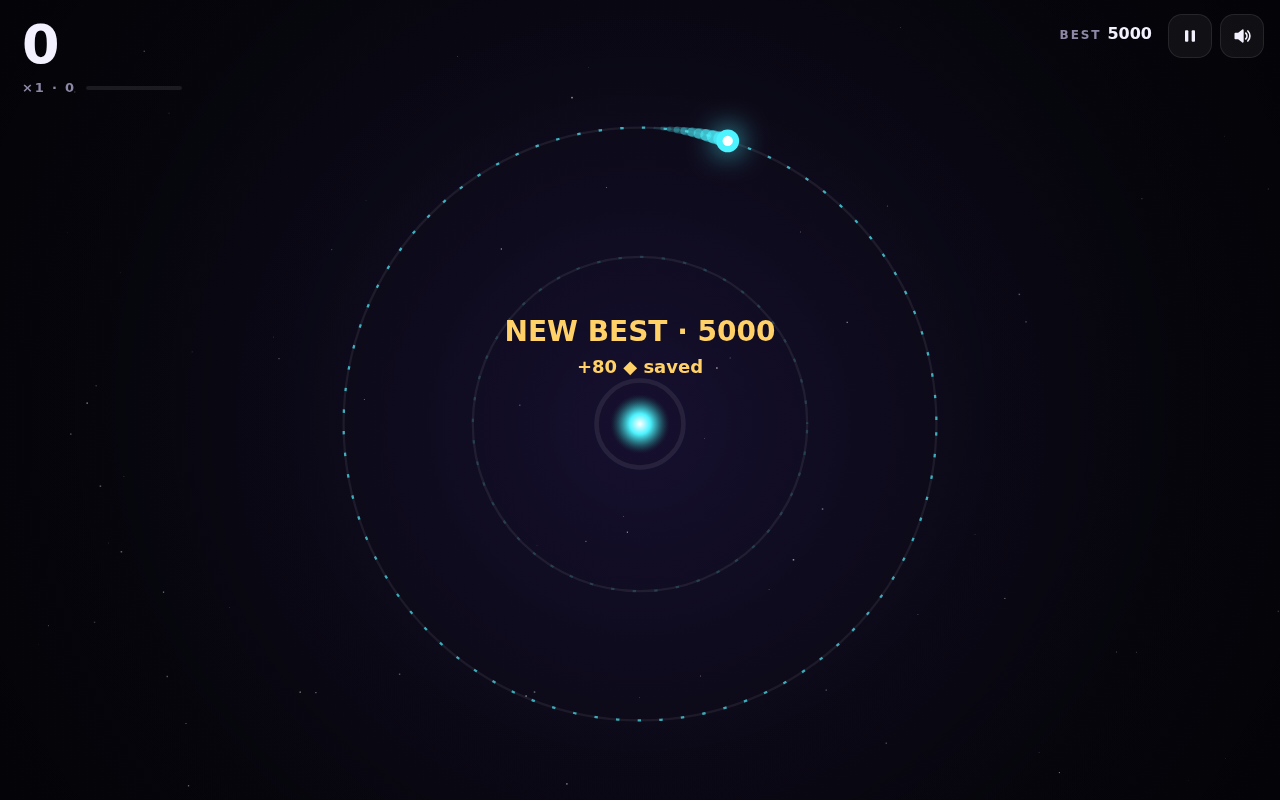
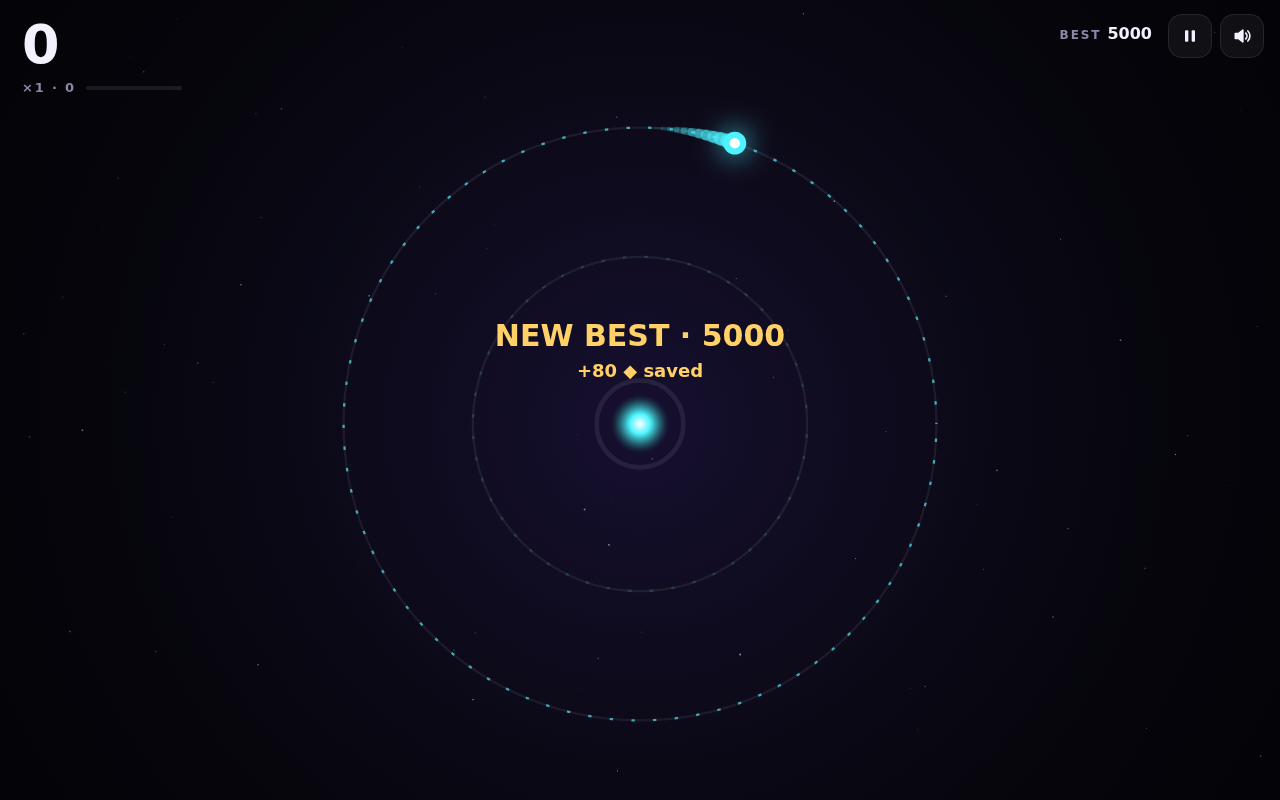
Arena run: round 2 defense progress
Claude-Session: https://claude.ai/code/session_01EPW2mXoS81stx9h1gXyWSK

Changed region(s): [[0.375, 0.375, 0.625, 0.4688], [0.5312, 0.1562, 0.5938, 0.1875]]

diff --git a/.arena/run-20261001-122657-s810702/scratch/a008r2/t.js b/.arena/run-20261001-122657-s810702/scratch/a008r2/t.js
@@ -1,0 +1,66 @@
+const { chromium } = require('/opt/node-tools/node_modules/playwright');
+const URL = 'file://' + process.cwd() + '/test.html';
+(async () => {
+  const b = await chromium.launch({ executablePath: '/opt/pw-browsers/chromium-1194/chrome-linux/chrome' });
+  const errs = [];
+  const mk = async (w, h) => { const p = await b.newPage({ viewport: { width: w, height: h } }); p.on('pageerror', e => errs.push(e.message)); p.on('console', m => { if (m.type()==='error') errs.push(m.text()); }); await p.goto(URL); await p.waitForTimeout(200); return p; };
+  // A. close-call chord
+  let p = await mk(1000, 800);
+  await p.click('#playBtn'); await p.waitForTimeout(300);
+  const setup = (lane) => p.evaluate((lane) => { const t = window.__t, G = t.G; G.spawnAt = G.angle + 1000; G.entities = [{ type: 'mine', lane, at: G.angle + 0.15, born: t.time, dead: false, spin: 0 }]; }, lane);
+  await setup(0); // mine on the other (inner) lane, player outer
+  await p.evaluate(() => { window.__t.snapLane(); window.__t.snapLane(); });
+  await p.waitForTimeout(400);
+  console.log('A chord:', await p.evaluate(() => ({ cc: window.__t.G.closeCalls, mode: window.__t.mode, score: window.__t.G.score })));
+  await p.keyboard.down('w'); await p.keyboard.up('w'); await p.keyboard.down('s'); await p.keyboard.up('s');
+  await setup(0); await p.keyboard.press('w'); await p.keyboard.press('s');
+  await p.waitForTimeout(400);
+  console.log('A keychord:', await p.evaluate(() => ({ cc: window.__t.G.closeCalls, lane: window.__t.G.lane, mode: window.__t.mode })));
+  await setup(1); await p.evaluate(() => window.__t.snapLane()); // real dodge off the mine's orbit
+  await p.waitForTimeout(400);
+  console.log('A real dodge:', await p.evaluate(() => ({ cc: window.__t.G.closeCalls, lane: window.__t.G.lane, mode: window.__t.mode })));
+  // C caps
+  await p.evaluate(() => { const G = window.__t.G; G.entities = []; });
+  const l0 = await p.evaluate(() => window.__t.G.lane);
+  await p.keyboard.press('Shift+W');
+  console.log('C Shift+W switched:', (await p.evaluate(() => window.__t.G.lane)) !== l0);
+  // D R spam
+  const runs0 = await p.evaluate(() => window.__t.Save.data.runs);
+  for (let i = 0; i < 26; i++) { await p.keyboard.press('r'); await p.waitForTimeout(30); }
+  console.log('D runs before/after 26xR:', runs0, await p.evaluate(() => ({ runs: window.__t.Save.data.runs, ach: window.__t.Save.data.ach })));
+  // play 6s then R: counted
+  await p.evaluate(() => { const G = window.__t.G; G.spawnAt = G.angle + 1000; G.entities = []; G.runTime = 5.5; });
+  await p.waitForTimeout(700); await p.keyboard.press('r');
+  console.log('D runs after 6s run + R:', await p.evaluate(() => window.__t.Save.data.runs));
+  // B keyboard on over screen: die
+  await p.evaluate(() => { const t = window.__t, G = t.G; G.spawnAt = G.angle + 1000; G.entities = [{ type: 'mine', lane: G.lane, at: G.angle + 0.05, born: t.time, dead: false, spin: 0 }]; });
+  await p.waitForTimeout(1600);
+  console.log('B over mode:', await p.evaluate(() => window.__t.mode), 'focus', await p.evaluate(() => document.activeElement.id));
+  await p.keyboard.press('Tab');
+  console.log('B focus after Tab:', await p.evaluate(() => document.activeElement.id));
+  await p.keyboard.press('Enter'); await p.waitForTimeout(400);
+  console.log('B after Enter on Hangar:', await p.evaluate(() => ({ mode: window.__t.mode, hangar: document.getElementById('hangar').classList.contains('show') })));
+  await p.keyboard.press('Escape'); await p.waitForTimeout(400);
+  await p.evaluate(() => document.getElementById('overMenuBtn').focus());
+  await p.keyboard.press('Space'); await p.waitForTimeout(400);
+  console.log('B Space on Menu btn:', await p.evaluate(() => ({ mode: window.__t.mode, menu: document.getElementById('menu').classList.contains('show') })));
+  await p.evaluate(() => document.getElementById('hangarBtn').focus());
+  await p.keyboard.press('Space'); await p.waitForTimeout(400);
+  console.log('B Space on menu Hangar btn:', await p.evaluate(() => ({ mode: window.__t.mode, hangar: document.getElementById('hangar').classList.contains('show') })));
+  await p.keyboard.press('Escape'); await p.waitForTimeout(400);
+  await p.evaluate(() => document.activeElement.blur()); await p.keyboard.press('Space'); await p.waitForTimeout(200);
+  console.log('B Space on menu (nothing focused) starts:', await p.evaluate(() => window.__t.mode));
+  await p.close();
+  // E layout
+  for (const [w, h] of [[844, 390], [390, 844], [1366, 768], [1280, 720], [1440, 900], [667, 375], [1024, 600]]) {
+    p = await mk(w, h);
+    await p.click('#playBtn'); await p.waitForTimeout(300);
+    const r = await p.evaluate(() => { const v = window.__t.view; const cb = document.getElementById('combo').getBoundingClientRect().bottom; const m = v.unit * 0.022 * 3; return { unit: Math.round(v.unit), hudBottom: Math.round(cb), orbitTopMinusGlow: Math.round(v.cy - v.rOut - m), orbitBottomPlusGlow: Math.round(v.cy + v.rOut + m), h: innerHeight, coreTextHalfW: Math.round(v.unit*0.026*0.6*8/2), inner: Math.round(v.rIn) }; });
+    console.log('E', w + 'x' + h, JSON.stringify(r), r.orbitTopMinusGlow >= r.hudBottom && r.orbitBottomPlusGlow <= r.h ? 'OK' : 'OVERLAP');
+    if (w === 844) { await p.evaluate(() => { const G = window.__t.G; G.runTime = 17.9; }); await p.waitForTimeout(350); await p.screenshot({ path: 'phase-844.png' }); }
+    if (w === 1366) { await p.evaluate(() => { const G = window.__t.G; G.runTime = 17.9; }); await p.waitForTimeout(350); await p.screenshot({ path: 'phase-1366.png' }); }
+    await p.close();
+  }
+  console.log('errors:', errs);
+  await b.close();
+})();

diff --git a/.arena/run-20261001-122657-s810702/scratch/a008r2/bot.js b/.arena/run-20261001-122657-s810702/scratch/a008r2/bot.js
@@ -1,0 +1,25 @@
+const { chromium } = require('/opt/node-tools/node_modules/playwright');
+const [phase, secs] = [Number(process.argv[2]), Number(process.argv[3])];
+(async () => {
+  const b = await chromium.launch({ executablePath: '/opt/pw-browsers/chromium-1194/chrome-linux/chrome' });
+  const p = await b.newPage({ viewport: { width: 1000, height: 800 } });
+  const errs = []; p.on('pageerror', e => errs.push(e.message));
+  await p.goto('file://' + process.cwd() + '/test.html');
+  await p.click('#playBtn');
+  await p.evaluate((phase) => {
+    const t = window.__t, G = t.G;
+    if (phase > 1) { G.phase = phase - 1; G.runTime = (phase - 1) * t.CFG.phaseLength - 0.01; G.speed = Math.min(t.CFG.maxSpeed, t.CFG.baseSpeed + (phase - 2) * t.CFG.speedPerPhase); }
+    window.__minRead = 99; const seen = new WeakSet();
+    setInterval(() => {
+      if (t.mode !== 1) return;
+      for (const e of G.entities) if (!seen.has(e)) { seen.add(e); window.__minRead = Math.min(window.__minRead, (e.at - G.angle) / G.speed); }
+      const ahead = G.entities.filter(e => !e.resolved && e.at > G.angle);
+      const nm = l => { const m = ahead.filter(e => e.type === 'mine' && e.lane === l).map(e => e.at - G.angle); return m.length ? Math.min(...m) : 99; };
+      const cur = nm(G.lane), oth = nm(1 - G.lane);
+      if (cur < 0.25 && oth > cur + 0.05) t.snapLane();
+    }, 8);
+  }, phase);
+  await p.waitForTimeout(secs * 1000);
+  console.log(JSON.stringify(await p.evaluate(() => ({ mode: window.__t.mode, phase: window.__t.G.phase, speed: +window.__t.G.speed.toFixed(2), t: +window.__t.G.runTime.toFixed(1), score: window.__t.G.score, cc: window.__t.G.closeCalls, minRead: +window.__minRead.toFixed(3) }))), errs);
+  await b.close();
+})();

diff --git a/.arena/run-20261001-122657-s810702/r2/a007-work/index.html b/.arena/run-20261001-122657-s810702/r2/a007-work/index.html
@@ -430,7 +430,7 @@ function burst(x, y, n, col, spd = 260, size = 3, life = 0.7) {
     parts.push({ x, y, vx: Math.cos(a) * s, vy: Math.sin(a) * s, life: l, max: l, size: size * U * (0.6 + Math.random() * 0.8), col });
   }
 }
-function popText(x, y, txt, col = '#fff', size = 18) { texts.push({ x, y, txt, col, size, life: 0.9, max: 0.9 }); }
+function popText(x, y, txt, col = '#fff', size = 18, life = 0.9) { texts.push({ x, y, txt, col, size, life, max: life }); }
 
 function startGame(carry) {
   A.init();
@@ -440,8 +440,8 @@ function startGame(carry) {
   parts.length = 0; texts.length = 0; trauma = 0; flash = 0;
   if (carry && carry.score !== undefined) { // instant retry skipped the results screen: say what was banked
     const y = CY - 70 * U;
-    if (carry.best) { popText(CX, y, 'NEW BEST · ' + carry.score, '#ffd166', 24); SFX.fanfare(); }
-    popText(CX, y + 30 * U, '+' + carry.earned + ' ◆ saved', '#ffd166', 15);
+    if (carry.best) { popText(CX, y, 'NEW BEST · ' + carry.score, '#ffd166', 24, 1.8); SFX.fanfare(); }
+    popText(CX, y + 30 * U, '+' + carry.earned + ' ◆ saved', '#ffd166', 15, 1.8);
   }
   state = 'play';
   showScreen(null);

diff --git a/.arena/run-20261001-122657-s810702/scratch/a008r2/index.html b/.arena/run-20261001-122657-s810702/scratch/a008r2/index.html
@@ -564,13 +564,13 @@ function resize() {
   canvas.height = Math.round(view.h * view.dpr);
   view.cx = view.w / 2;
   // The play field sits below the HUD (score + combo line), measured from the DOM so it
-  // follows the CSS font sizes. The field needs 0.84 unit of height: two outer radii
-  // (0.74) plus room for hazard glow at the top and bottom of the outer orbit.
+  // follows the CSS font sizes. The field needs 0.88 unit of height: two outer radii
+  // (0.74) plus a hazard's full glow (0.07) above and below the outer orbit.
   const comboBottom = document.getElementById("combo").getBoundingClientRect().bottom;
   const top = (comboBottom > 0 ? comboBottom : 100) + 8;
   const bottom = 12;
   const avail = Math.max(120, view.h - top - bottom);
-  view.unit = Math.min(view.w, avail / 0.84, 760);
+  view.unit = Math.min(view.w, avail / 0.88, 760);
   view.cy = top + avail / 2;
   view.rIn = view.unit * 0.22;
   view.rOut = view.unit * 0.37;

diff --git a/.arena/run-20261001-122657-s810702/scratch/a008r2/test.html b/.arena/run-20261001-122657-s810702/scratch/a008r2/test.html
@@ -564,13 +564,13 @@ function resize() {
   canvas.height = Math.round(view.h * view.dpr);
   view.cx = view.w / 2;
   // The play field sits below the HUD (score + combo line), measured from the DOM so it
-  // follows the CSS font sizes. The field needs 0.84 unit of height: two outer radii
-  // (0.74) plus room for hazard glow at the top and bottom of the outer orbit.
+  // follows the CSS font sizes. The field needs 0.88 unit of height: two outer radii
+  // (0.74) plus a hazard's full glow (0.07) above and below the outer orbit.
   const comboBottom = document.getElementById("combo").getBoundingClientRect().bottom;
   const top = (comboBottom > 0 ? comboBottom : 100) + 8;
   const bottom = 12;
   const avail = Math.max(120, view.h - top - bottom);
-  view.unit = Math.min(view.w, avail / 0.84, 760);
+  view.unit = Math.min(view.w, avail / 0.88, 760);
   view.cy = top + avail / 2;
   view.rIn = view.unit * 0.22;
   view.rOut = view.unit * 0.37;

diff --git a/.arena/run-20261001-122657-s810702/r2/r2-m01.a007.solution.md b/.arena/run-20261001-122657-s810702/r2/r2-m01.a007.solution.md
@@ -1,3 +1,14 @@
+# Pulse Orbit: a one-button neon arcade game
+
+You get one file, `index.html`, with no dependencies, no build step and no network requests. Save it and open it in any modern browser (desktop or mobile, portrait or landscape) and it plays straight away.
+
+**How it plays:** your comet orbits a pulsing core on one of two rings. Tap, click or press Space to switch rings. Gold shards build your **chain**, and every 5 in the chain raises the score multiplier (up to ×9). Red spikes flash a dashed warning first and can't hurt you during it. Then they go live. If you hit one, the run ends. If you were really riding a spike's ring less than 0.35 s before you pass it, and you got off in time, you score a **CLUTCH** bonus (a quick double-tap that never leaves your own ring scores nothing). Every 10th shard in a chain fires a **PULSE**: a shockwave clears every spike, time slows for a moment and your orbit reverses. If you let a shard expire (it blinks first), your chain breaks. Speed, spawn rate and music tempo keep rising. Shards you collect are kept between runs and buy skins.
+
+Controls: **Tap / Click / Space / ↑ / W** switch orbit · **P / Esc** pause · **R** restart · **M** mute. The game pauses itself when the tab loses focus. After a crash, tap or press Space/R again from 0.3 s onward to go straight into the next run; the run is saved first and the new run opens with a "NEW BEST · score" / "+N ◆ saved" banner so you still see what you earned. **Every way a run can end is saved:** crash, R, pause → Restart, pause → Menu, and closing the tab.
+
+## `index.html` (complete file)
+
+```html
 <!doctype html>
 <html lang="en">
 <head>
@@ -430,7 +441,7 @@ function burst(x, y, n, col, spd = 260, size = 3, life = 0.7) {
     parts.push({ x, y, vx: Math.cos(a) * s, vy: Math.sin(a) * s, life: l, max: l, size: size * U * (0.6 + Math.random() * 0.8), col });
   }
 }
-function popText(x, y, txt, col = '#fff', size = 18) { texts.push({ x, y, txt, col, size, life: 0.9, max: 0.9 }); }
+function popText(x, y, txt, col = '#fff', size = 18, life = 0.9) { texts.push({ x, y, txt, col, size, life, max: life }); }
 
 function startGame(carry) {
   A.init();
@@ -440,8 +451,8 @@ function startGame(carry) {
   parts.length = 0; texts.length = 0; trauma = 0; flash = 0;
   if (carry && carry.score !== undefined) { // instant retry skipped the results screen: say what was banked
     const y = CY - 70 * U;
-    if (carry.best) { popText(CX, y, 'NEW BEST · ' + carry.score, '#ffd166', 24); SFX.fanfare(); }
-    popText(CX, y + 30 * U, '+' + carry.earned + ' ◆ saved', '#ffd166', 15);
+    if (carry.best) { popText(CX, y, 'NEW BEST · ' + carry.score, '#ffd166', 24, 1.8); SFX.fanfare(); }
+    popText(CX, y + 30 * U, '+' + carry.earned + ' ◆ saved', '#ffd166', 15, 1.8);
   }
   state = 'play';
   showScreen(null);
@@ -1018,7 +1029,6 @@ function frame(now) {
   render(now);
 }
 
-window.__t={get G(){return G},S,get state(){return state},bank};
 resize();
 refreshMenu();
 requestAnimationFrame(frame);
@@ -1026,3 +1036,31 @@ requestAnimationFrame(frame);
 </script>
 </body>
 </html>
+```
+
+## Requirements checklist (and where each one is met)
+
+| # | Requirement | Where it is met |
+|---|---|---|
+| 0 | Self-contained, playable web game (HTML5/Canvas) | One file with Canvas 2D and vanilla JS, no libraries, no network. `resize()` scales for DPR. Verified in headless Chromium at 1280×800, 375×667 (portrait phone), 667×375 and 568×320 (landscape phones, touch emulation): every menu, shop and game-over button is fully inside the viewport. Short screens get a compact layout (`@media (max-height:520px)`: 6-column skin grid, two-column game-over panel). `touch-action:none` is set on the canvas only, and panels have `touch-action:pan-y`, so a panel that is still taller than the screen scrolls by touch. |
+| 1 | Instant restart loop | `retry()` restarts from 0.3 s after death (`RETRY_GUARD`). Tap the canvas, or press Space, ↑, W, Enter or R, while the death animation is still playing (`state === 'dying'`): the run is banked with `bank(true)` and the next run starts at once with an on-canvas banner (NEW BEST · score, +N ◆ saved, plus the fanfare only when a record was set), so the fast path never loses the record feedback. If you wait, the results screen appears 0.8 s after death and a tap/click anywhere outside its buttons, Space, Enter or R retries (it listens for `click`, so scrolling the panel never triggers a retry). R mid-run restarts immediately and saves the abandoned run first. |
+| 2 | Juice: shake, feedback, particles, animation | Trauma-based screen shake (`shake()`, applied in `render`). Hit-stop freeze when you die (`G.hitstop`) and slow-mo on a Pulse (`G.slow`). Additive particle bursts (`burst()`, up to 800 particles) for shards, clutches, orbit switches, deaths and skin purchases. Expanding shockwave, full-screen flash, floating score text, core and rings that pulse with the kick drum (`Music.beats` → `beat`), animated dashed rings, a trailing comet, telegraph rings that pop in, a score bump on the HUD, a count-up final score, an animated XP bar and a NEW BEST badge pop. |
+| 3 | Procedural Web Audio sound | The `A` object builds everything from oscillators and a noise buffer through a compressor. `SFX` has switch, shard (a pentatonic note that climbs as the chain grows), clutch, pulse, chain-break, death, click, deny and fanfare sounds. `Music` is a lookahead-scheduled sequencer with kick, hats, clap, bass and arp. It gets faster as the game speeds up and adds layers as you play (clap after 12 s, arp at a 5+ chain). There are no audio files. |
+| 4 | Save system: high score, progression, unlockables | `localStorage` key `pulse-orbit:v1` (`load()`/`save()`, validated and wrapped in try/catch) stores best score, shards, XP/level (`levelInfo`, +20 shards per level-up), runs, lifetime shards, best chain, owned/equipped skins (Neon free, Synth 60, Acid 150, Solar 300, Ember 500, Prism 900) and mute. `bank(final)` writes only what the run earned since the last bank, so it is safe to call repeatedly: it runs on crash (`endRun`), on R / pause → Restart (`startGame`), on pause → Menu (`toMenu`), as a checkpoint when the tab is hidden (`visibilitychange`) and finally on `pagehide`. A run counts as one play exactly once (`G.counted`). The live HUD BEST turns gold and pops "NEW BEST!" against the best at run start (`G.startBest`), and that record is now always persisted. Tested: score 500 then R → saved best 500, plays 1; score 900 then pause → Menu → best 900; checkpoint at 100 then crash at 150 → XP grew by exactly 150 (no double count). |
+| 5 | High-end visual design / UI taste / web guidelines | A restrained dark palette with one accent per skin. Glass panels, tight heavy type and tabular numbers. Visible focus rings, `aria-label`s on icon buttons, 44 px touch targets (42 px on compact landscape), safe-area insets and `prefers-reduced-motion` support (less shake and flash, no panel animation). The HUD only writes to the DOM when a value changes. |
+| 6 | Complete, production-ready code (no placeholders) | Every feature above is implemented; no TODOs or stubs. This exact file passes `node --check` on its script, and a headless Chromium (Playwright, Chromium build 1194) run of it reported zero console errors and zero page errors through: menu → play → R restart → pause → Menu → play → double-tap clutch test → genuine clutch test → crash → results → record + instant retry → three phone viewports with touch (shop open/close, crash, results, Menu). The test used a copy of the file that only adds one line exposing internal state for assertions; the shipped file does not contain it. |
+| 7 | React best practices "if using React" | React isn't used, so this doesn't apply. A single static file is the most direct way to meet "self-contained, open in a browser". |
+
+## Fairness rules built in
+- Spikes always spawn at least about 1 s of travel ahead of you. They are harmless during their 0.65 s warning.
+- A new spike is never placed next to a spike on the other ring unless there is a gap of at least `hazardGap()` = `max(0.45 rad, 0.3 s of travel)`.
+- The gap also holds for the spike's whole life, not only when it spawns. A drifting spike (after 18 s) reverses before it can come closer than `hazardGap()` to a spike on the other ring, so the two rings are never blocked at the same angle (checked with a 20,000-pair random simulation: closest cross-ring separation 0.450 rad).
+- Movement and collision are sub-stepped (`frame()`). No single step moves the comet further than its own radius, so a live spike can't be skipped at a low frame rate (dt clamp 50 ms) or on a large screen. Worst-case step at 20 fps and top speed: 5.5 px against an 11.4 px hit radius at 375×667, and 12.9 px against 26.6 px at 3840×2160.
+- CLUTCH can't be farmed: it requires that the comet was physically on the spike's orbit (`P.onT[ring]`, set only while the ring blend is within 0.2 of that orbit) less than 0.35 s before passing, and is now clear of it (blend more than 0.6 away). Tested: a 20 ms double-tap past a live spike on the other ring gives 0 clutches; really riding the spike's ring and switching off 0.28 s before it gives 1 clutch and no death.
+- The collision radius is smaller than the spike you see, and the shard pickup radius is larger than the shard, so near misses feel generous.
+
+## Assumptions
+- "Unlockables" means cosmetic skins bought with shards earned in play, plus account levels that pay out shards. There is no gameplay pay-to-win.
+- Browsers only allow audio after a user gesture, so sound starts on your first tap or key press. That is standard Web Audio behaviour, not a bug.
+- If `localStorage` is blocked (some private modes), the game still runs. Progress then lasts only for that session.
+- Tested only in headless Chromium (with touch/mobile emulation for the phone viewports). Safari and Firefox support every API used (Canvas 2D, Web Audio with the `webkitAudioContext` fallback, Pointer Events, `pagehide`), but I did not run it in them. Mobile browsers may kill a backgrounded tab without firing `pagehide`; the checkpoint taken on `visibilitychange` covers that case up to the moment the tab was hidden.

diff --git a/.arena/run-20261001-122657-s810702/r2/r2-m01.a007.defense.md b/.arena/run-20261001-122657-s810702/r2/r2-m01.a007.defense.md
@@ -1,0 +1,5 @@
+ATTACK 1: CONCEDE. Panels could overflow on landscape phones and body-level touch-action:none made scrolling them unreliable. Fixed: touch-action:none moved to the canvas only, panels get touch-action:pan-y, and a max-height:520px compact layout (6-column skin grid, two-column results panel) fits everything; Chromium touch-emulation at 667x375 and 568x320 confirms Back, Retry, Skins and Menu are all fully on screen.
+ATTACK 2: CONCEDE. The clutch check never verified real danger. Fixed: CLUTCH now requires the comet to have actually been on the spike's orbit (blend within 0.2, tracked in P.onT) less than 0.35 s before passing and to be clear of it now; tested a 20 ms double-tap past a live spike gives 0 clutches, a genuine late switch gives 1.
+ATTACK 3: CONCEDE. Only endRun saved, so R, pause Restart/Menu and tab close dropped the run. Fixed with an idempotent incremental bank(final) called on crash, restart, menu, tab-hidden checkpoint and pagehide; HUD record compares against G.startBest. Tested: R after score 500 saves best 500; checkpoint+crash adds XP exactly once.
+ATTACK 4: CONCEDE. The claims contradicted each other. A browser was in fact available; the revised file itself was run in headless Chromium through every attacked path plus three phone viewports with zero console/page errors, and the checklist and Assumptions now say exactly that.
+ATTACK 5: CONCEDE. Instant retry flashed the results screen away and played the fanfare unexplained. Fixed: the dying-retry path banks silently (no results screen, no stray fanfare) and the new run opens with a 1.8 s "NEW BEST · score" + "+N ◆ saved" banner, fanfare only with that banner. Also noticed and fixed: results-screen retry used pointerdown, so a scroll gesture retried; it now uses click.
